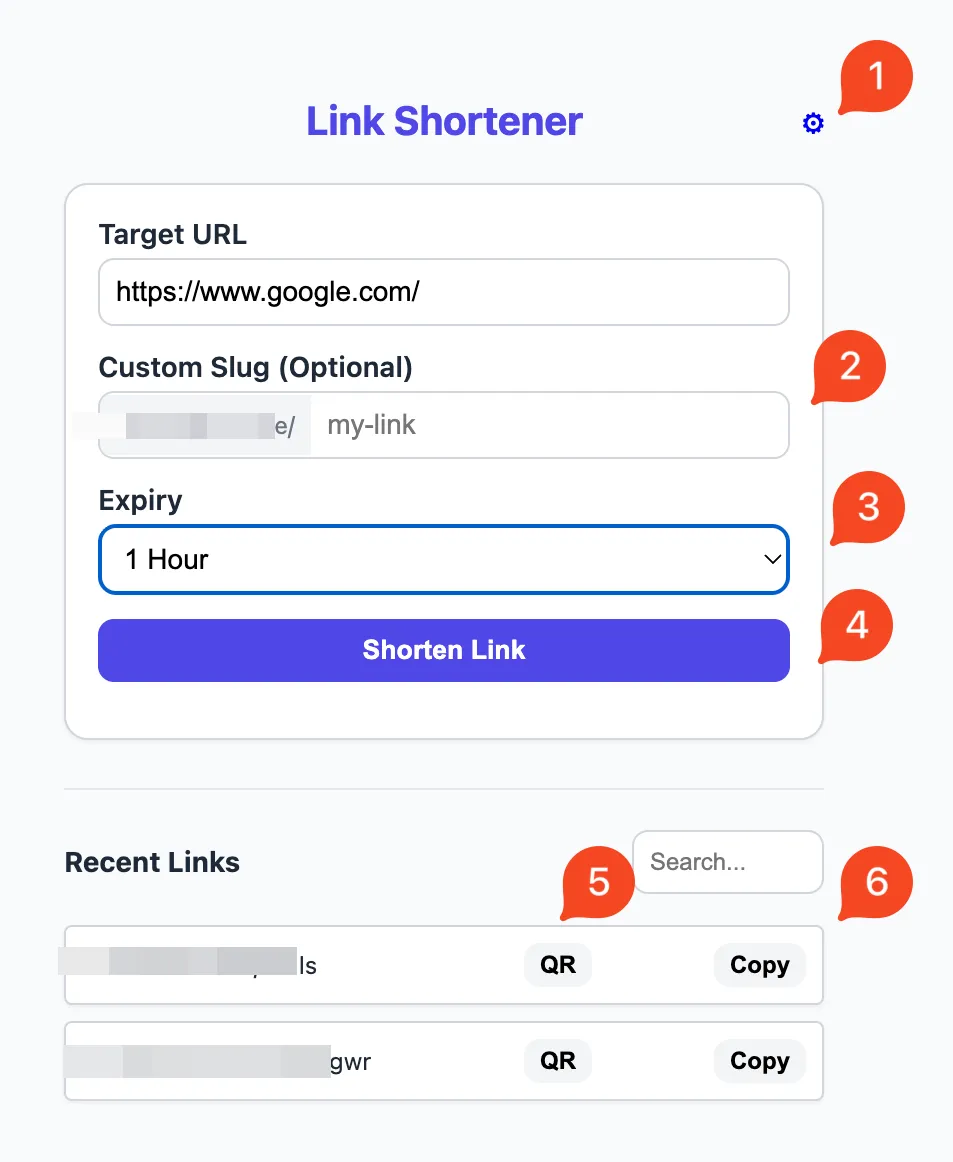
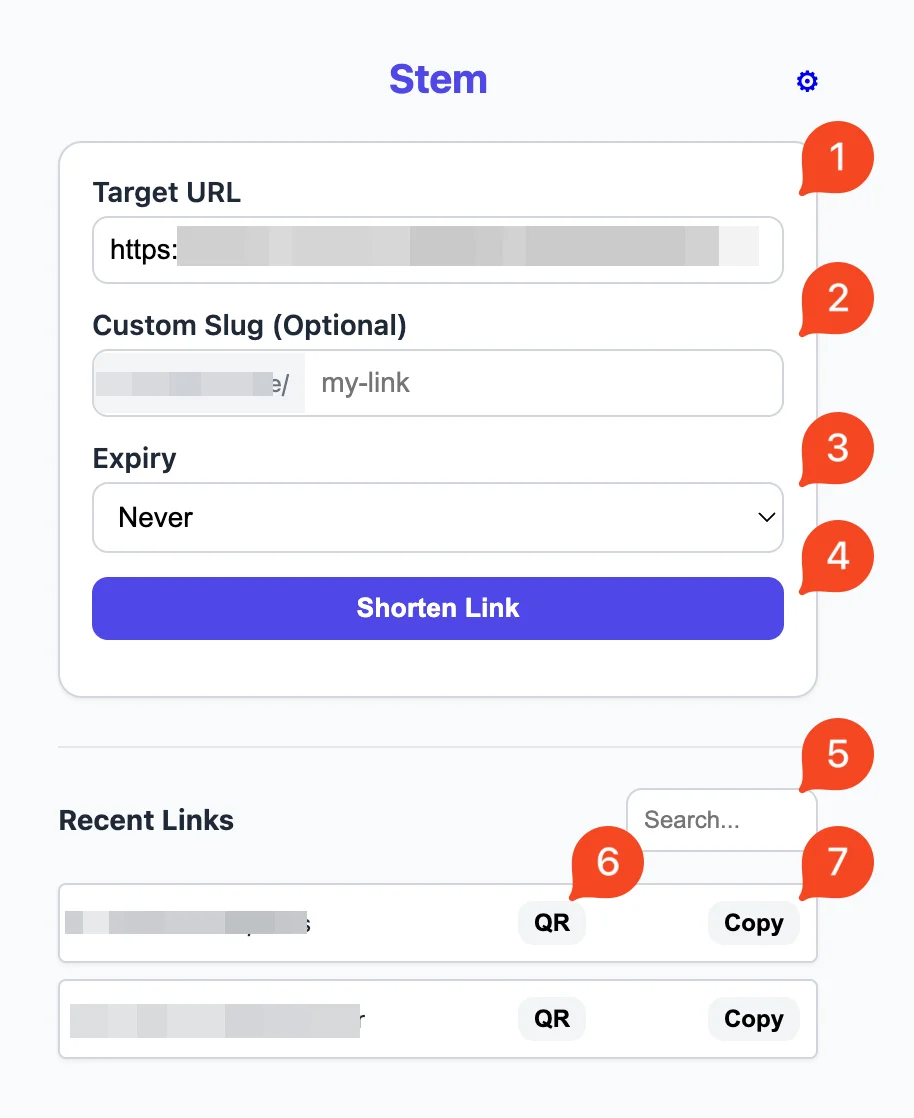
docs: refresh extension screenshots for Stem rebrand; update callout legends

diff --git a/extension/README.md b/extension/README.md
@@ -13,12 +13,13 @@ automatically · Options page with a
 
 <img src="../images/extension-panel.webp" width="360" alt="The extension popup, with numbered callouts" />
 
-1. Settings (gear)
+1. Target URL (auto-filled from the current tab)
 2. Optional custom slug
 3. Expiry / one-time use
 4. Shorten the current tab
-5. Show a recent link's QR code
-6. Copy a recent link
+5. Search your recent links
+6. Show a recent link's QR code
+7. Copy a recent link
 
 Tapping **QR** opens a scannable "scan me" card you can copy as an image:
 
@@ -68,7 +69,8 @@ pasted verbatim (no header names, no trimming):
 1. Server URL — your short domain
 2. Access Client ID (ends in `.access`)
 3. Access Client Secret
-4. **Test connection** — confirms the token, policy, and host permission
+4. **Save**
+5. **Test connection** — confirms the token, policy, and host permission
 
 Click **Save**, then **approve the host-permission prompt**. If it didn't prompt,
 enable it manually: `chrome://extensions` → the extension → **Details → Site access**